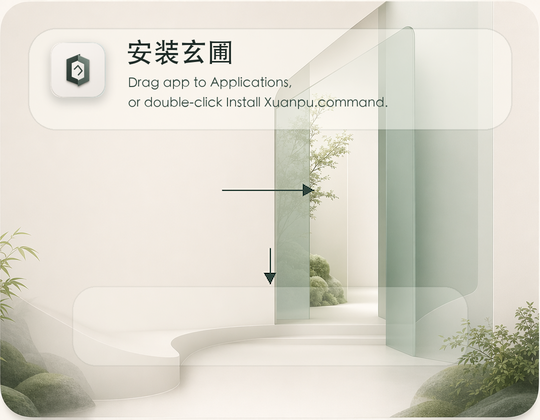
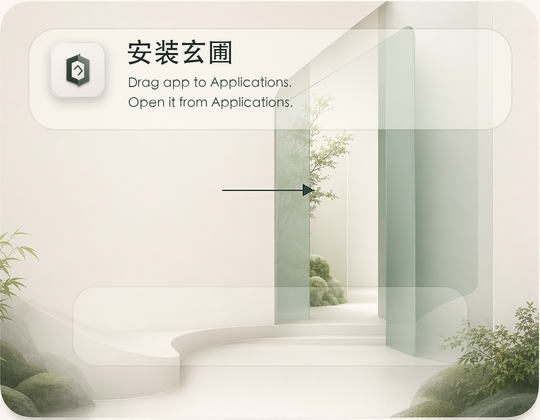
fix(release): remove blocked mac installer command

Changed region(s): [[0.237, 0.2167, 0.7111, 0.2786], [0.4741, 0.5881, 0.5037, 0.681]]

diff --git a/scripts/generate-brand-assets.py b/scripts/generate-brand-assets.py
@@ -876,13 +876,13 @@ def make_dmg_background(icon: Image.Image) -> None:
         )
         draw.text(
             (128 * scale, 76 * scale),
-            'Drag app to Applications,',
+            'Drag app to Applications.',
             font=font(13 * scale),
             fill=rgba(PALETTE['field_jade_deep'], 226),
         )
         draw.text(
             (128 * scale, 96 * scale),
-            'or double-click Install Xuanpu.command.',
+            'Open it from Applications.',
             font=font(13 * scale),
             fill=rgba(PALETTE['field_jade_deep'], 226),
         )
@@ -891,14 +891,6 @@ def make_dmg_background(icon: Image.Image) -> None:
             (222 * scale, 190 * scale),
             (314 * scale, 190 * scale),
             rgba(PALETTE['field_jade_deep'], 88),
-            max(1, round(1.4 * scale)),
-            scale,
-        )
-        draw_arrow(
-            draw,
-            (270 * scale, 248 * scale),
-            (270 * scale, 284 * scale),
-            rgba(PALETTE['field_jade_deep'], 70),
             max(1, round(1.4 * scale)),
             scale,
         )
@@ -956,13 +948,13 @@ def make_dmg_background(icon: Image.Image) -> None:
     )
     draw.text(
         (130 * scale, 76 * scale),
-        'Drag app to Applications,',
+        'Drag app to Applications.',
         font=font(13 * scale),
         fill=rgba(PALETTE['field_jade_deep'], 224),
     )
     draw.text(
         (130 * scale, 96 * scale),
-        'or double-click Install Xuanpu.command.',
+        'Open it from Applications.',
         font=font(13 * scale),
         fill=rgba(PALETTE['field_jade_deep'], 224),
     )
@@ -976,21 +968,11 @@ def make_dmg_background(icon: Image.Image) -> None:
         max(1, round(1.4 * scale)),
         scale,
     )
-    draw_arrow(
-        draw,
-        (270 * scale, 250 * scale),
-        (270 * scale, 284 * scale),
-        rgba(PALETTE['signal_gold'], 106),
-        max(1, round(1.4 * scale)),
-        scale,
-    )
-
     wells = Image.new('RGBA', canvas.size, (0, 0, 0, 0))
     wells_draw = ImageDraw.Draw(wells)
     for center_x, center_y, radius, alpha in [
         (130, 190, 54, 28),
         (410, 190, 54, 28),
-        (270, 320, 46, 24),
     ]:
         wells_draw.ellipse(
             [

diff --git a/README.md b/README.md
@@ -90,15 +90,16 @@
 | Windows (x64)         | `Xuanpu-Setup-x.x.x.exe`       | 64-bit 安装包     |
 | Windows (ARM)         | `Xuanpu-Setup-x.x.x-arm64.exe` | ARM64 安装包      |
 
-> **macOS 安装提示**：当前版本未经 Apple 签名。打开 DMG 后，双击里面的
-> `Install Xuanpu.command`，它会自动复制到 `/Applications`、执行去隔离命令并打开应用。
-> 如果脚本不可用，也可以手动执行：
+> **macOS 安装提示**：当前版本未经 Apple 签名。打开 DMG 后，将 `玄圃.app`
+> 拖到 `/Applications`，再从「应用程序」中打开。
+> 如果 macOS 拦截首次打开，可以手动执行：
 >
 > ```bash
 > /usr/bin/xattr -cr "/Applications/玄圃.app"
 > ```
 >
-> 或者：系统设置 → 隐私与安全性 → 点击「仍要打开」。
+> 或者：右键点击「玄圃」→「打开」，确认一次；也可以在
+> 系统设置 → 隐私与安全性 → 点击「仍要打开」。
 >
 > **Windows 安装提示**：安装包未签名，Windows SmartScreen 可能会弹出警告。
 > 点击「更多信息」→「仍要运行」即可。

diff --git a/docs/FAQ.md b/docs/FAQ.md
@@ -37,11 +37,11 @@ brew tap slicenferqin/xuanpu
 brew install --cask xuanpu
 ```
 
-Alternatively, download the `.dmg` file from [GitHub Releases](https://github.com/slicenferqin/xuanpu/releases). Open the DMG and double-click `Install Xuanpu.command` to copy Xuanpu to `/Applications`, remove quarantine attributes, and launch it.
+Alternatively, download the `.dmg` file from [GitHub Releases](https://github.com/slicenferqin/xuanpu/releases). Open the DMG, drag `玄圃.app` to `/Applications`, then open Xuanpu from Applications.
 
 ### Why does macOS say "Xuanpu can't be opened"?
 
-This is macOS's Gatekeeper protection for unsigned builds. The DMG includes `Install Xuanpu.command`, which runs the required quarantine cleanup automatically. If you installed manually, run:
+This is macOS's Gatekeeper protection for unsigned builds. If Xuanpu is blocked after you drag it to Applications, run:
 
 ```bash
 /usr/bin/xattr -cr "/Applications/玄圃.app"